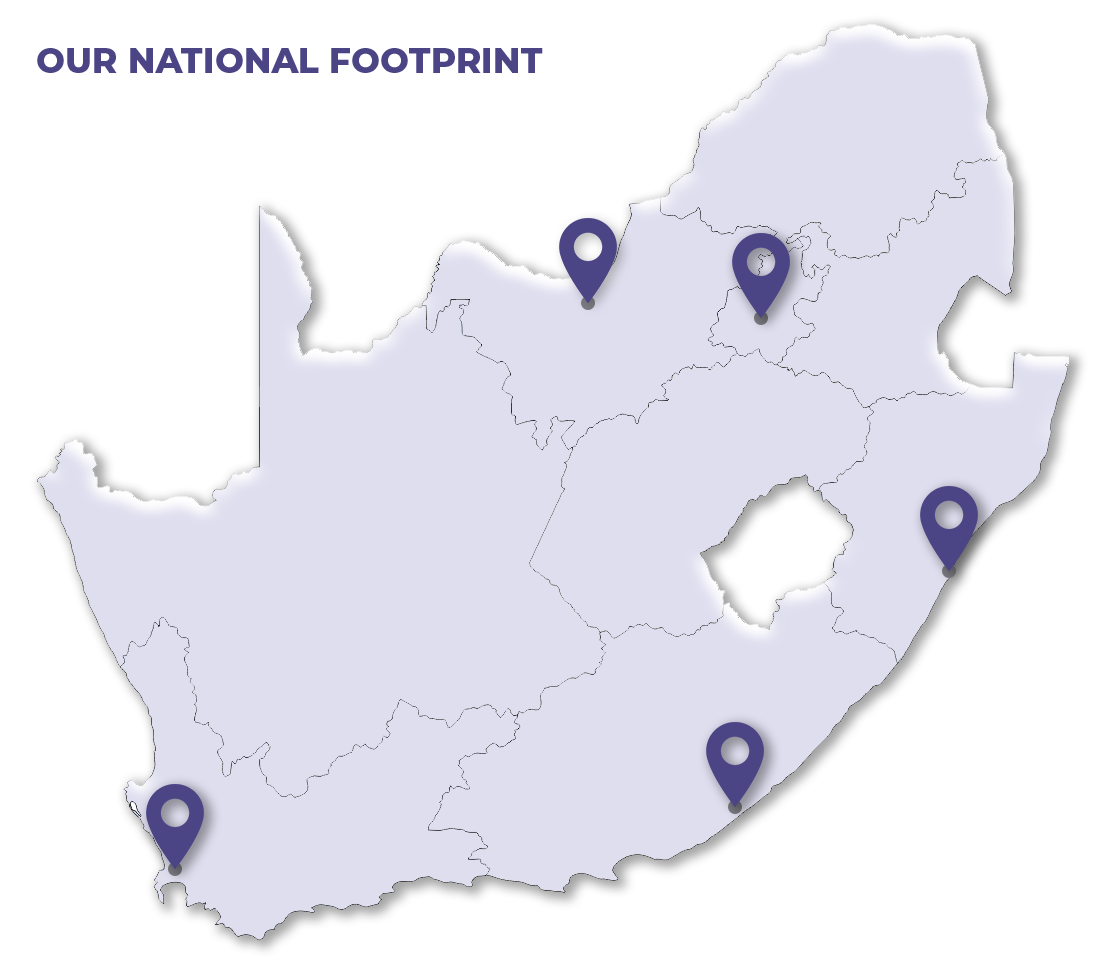
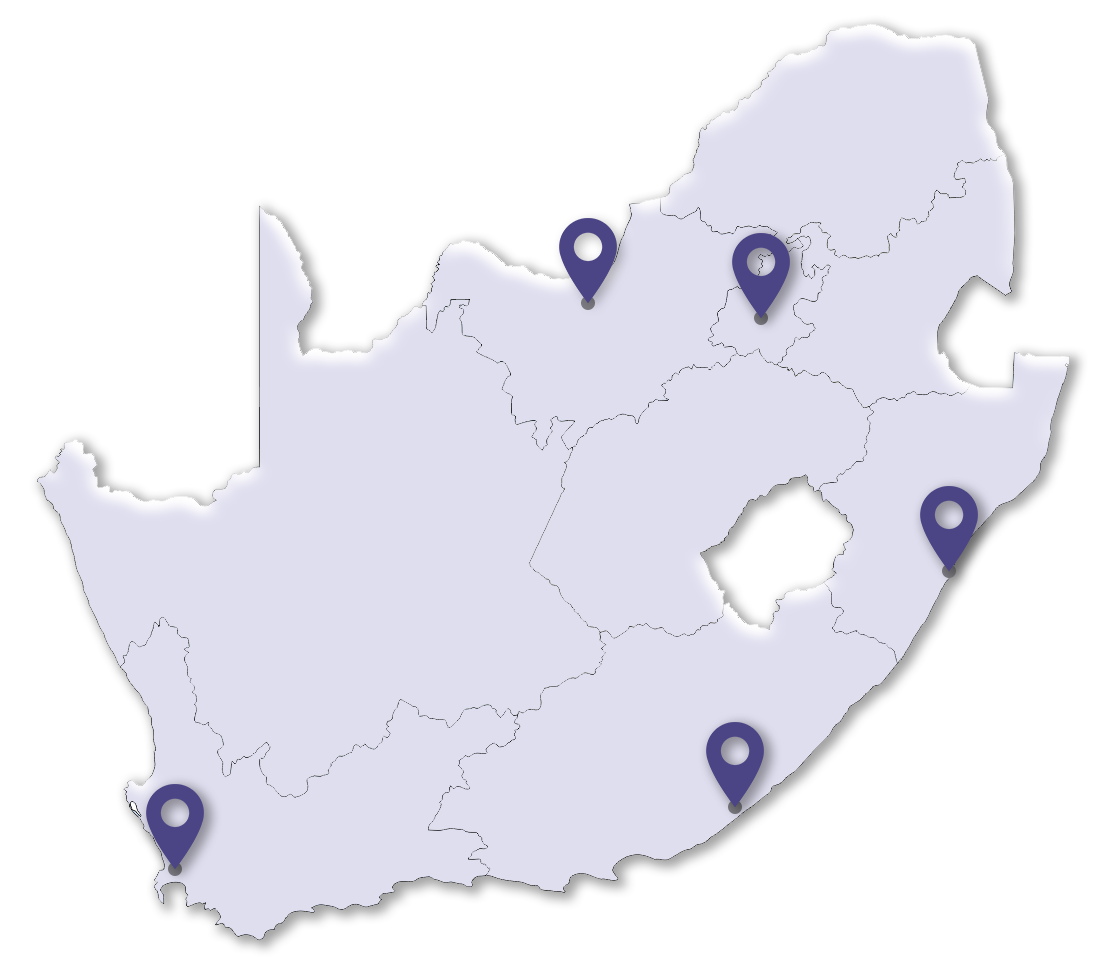
contact page

Changed region(s): [[0.031, 0.0309, 0.4964, 0.0926]]

diff --git a/src/components/Form.js b/src/components/Form.js
@@ -1,51 +1,22 @@
-import React, { useEffect } from "react";
-import { questions } from "./data.js";
-import Question from "./Question";
-import { MdOutlineLibraryBooks } from "react-icons/md";
-import map from "../assets/map.png";
-import "./FormStyles.css"
-import AOS from "aos";
-import "aos/dist/aos.css";
+import React from 'react'
+import './FormStyles.css'
 
 const Form = () => {
-  useEffect(() => {
-    AOS.init({
-      duration: 1000,
-    });
-  }, []);
-  return (
-    <section id="faq">
-      <div className="container faq">
-        <div className="u-title" data-aos="fade-up">
-          <h2>Contact Us</h2>
-          <p className="u-text-small">
-          Tel: +27 11 438 4300
-          </p>
-          <p className="u-text-small">
-          Fax: +27 86 535 8624
-          </p>
-          <p className="u-text-small">
-          Email: reception@tafadzwa.co.za
-          </p>
-          <div className="u-title" data-aos="fade-up">
-          
-          </div> 
+    return (
+        <div className='form'>
+            <form>
+                <label>Your Name</label>
+                <input type='text'></input>
+                <label>Email</label>
+                <input type='email'></input>
+                <label>Subject</label>
+                <input type='text'></input>
+                <label>Details</label>
+                <textarea rows='6' placeholder='Type a short message here' />
+                <button className='btn'>Submit</button>
+            </form>
         </div>
-        <div className="map" data-aos="fade-left">
-          <img src={map} alt="map" height={290} width={360} margin={1} />
-          </div>
-        <div className="questions" data-aos="fade-right">
-          {questions.map((question) => (
-            <Question
-              key={question.id}
-              title={question.title}
-              answer={question.answer}
-            />
-          ))}
-        </div>
-      </div>
-    </section>
-  );
-};
+    )
+}
 
-export default Form;
+export default Form

diff --git a/src/components/contact/Contact.js b/src/components/contact/Contact.js
@@ -1,0 +1,51 @@
+import React, { useEffect } from "react";
+import { questions } from "./data.js";
+import Question from "./Question";
+import { MdOutlineLibraryBooks } from "react-icons/md";
+import map from "../../assets/map.png";
+import "./Contact.css"
+import AOS from "aos";
+import "aos/dist/aos.css";
+
+const Faq = () => {
+  useEffect(() => {
+    AOS.init({
+      duration: 1000,
+    });
+  }, []);
+  return (
+    <section id="faq">
+      <div className="container faq">
+        <div className="u-title" data-aos="fade-up">
+          <h2>Contact Us</h2>
+          <p className="u-text-small">
+          Tel: +27 11 438 4300
+          </p>
+          <p className="u-text-small">
+          Fax: +27 86 535 8624
+          </p>
+          <p className="u-text-small">
+          Email: reception@tafadzwa.co.za
+          </p>
+          <div className="u-title" data-aos="fade-up">
+          
+          </div> 
+        </div>
+        <div className="map" data-aos="fade-left">
+          <img src={map} alt="map" height={290} width={360} margin={1} />
+          </div>
+        <div className="questions" data-aos="fade-right">
+          {questions.map((question) => (
+            <Question
+              key={question.id}
+              title={question.title}
+              answer={question.answer}
+            />
+          ))}
+        </div>
+      </div>
+    </section>
+  );
+};
+
+export default Faq;

diff --git a/src/components/contact/Contact.css b/src/components/contact/Contact.css
@@ -1,0 +1,56 @@
+section#faq {
+  max-width: 100%;
+  text-align: auto;
+  color:#4b4586;
+  background-size: cover;
+  background-attachment: fixed;
+  position: relative;
+  width: 100%;
+  height: 100%;
+  min-height: 100vh;
+}  
+
+.faq p {
+  font-weight: 600;
+  font-size: 1.3rem;
+  font-size: 1.2rem;
+  width: 100%;
+  height: 100%;
+  display: flex;
+  flex-direction: column;
+  justify-content: center;
+  align-items: center;
+  color: #ffff;
+  position: relative;
+
+}
+
+  .questions {
+    margin: 0;
+    align-items: center;
+  }
+  
+  .map img {
+    width: 38%;
+    height: auto;
+    float: right;
+    margin: 0;
+    align-items: center;
+    
+}
+
+.faq h2 {
+  font-weight: 600;
+  padding: 1rem 0;
+  font-size: 1.2rem;
+  width: 100%;
+  height: 100%;
+  display: flex;
+  flex-direction: column;
+  justify-content: center;
+  align-items: center;
+  text-transform: uppercase;
+  color: #ffffff;
+  position: relative;
+  align-items: center;
+}

diff --git a/src/routes/Contact.js b/src/routes/Contact.js
@@ -3,13 +3,17 @@ import Footer from '../components/Footer'
 import HeroImage from '../components/HeroImage'
 import Navbar from '../components/Navbar'
 import Form from '../components/Form'
+import Faq from '../components/contact/Contact'
+import '../components/contact/Contact.css'
+import '../components/contact/Question.css'
+
 
 const Contact = () => {
     return (
         <div>
             <Navbar />
-            <HeroImage heading='CONTACT.' text='Contact GLX Travel' />
-            <Form />
+            <HeroImage heading='Contact' text='More information below on how to reach us ' />
+            <Faq/>
             <Footer/>
         </div>
     )

diff --git a/src/App.js b/src/App.js
@@ -1,6 +1,6 @@
 import React from 'react'
 import {Routes, Route} from 'react-router-dom'
-// import Contact from './routes/Contact';
+import Contact from './routes/Contact';
 
 import Home from './routes/Home'
 import Pricing from './routes/Pricing'
@@ -13,7 +13,7 @@ function App() {
         <Route path='/' element={<Home />} />
         <Route path='/pricing' element={<Pricing />} />
         <Route path='/training' element={<Training />} />
-        {/* <Route path='/contact' element={<Contact />} /> */}
+        <Route path='/contact' element={<Contact />} />
       </Routes>
     </>
   );

diff --git a/src/components/contact/Question.css b/src/components/contact/Question.css
@@ -20,10 +20,10 @@
 }
 
 .question-title h4 {
-  font-size: 1.4rem;
+  font-size: 1.3rem;
+  color: #4b4586;
   font-weight: 600;
   line-height: 1.4;
-  text-transform: uppercase;
 }
 
 button.question-icons {
